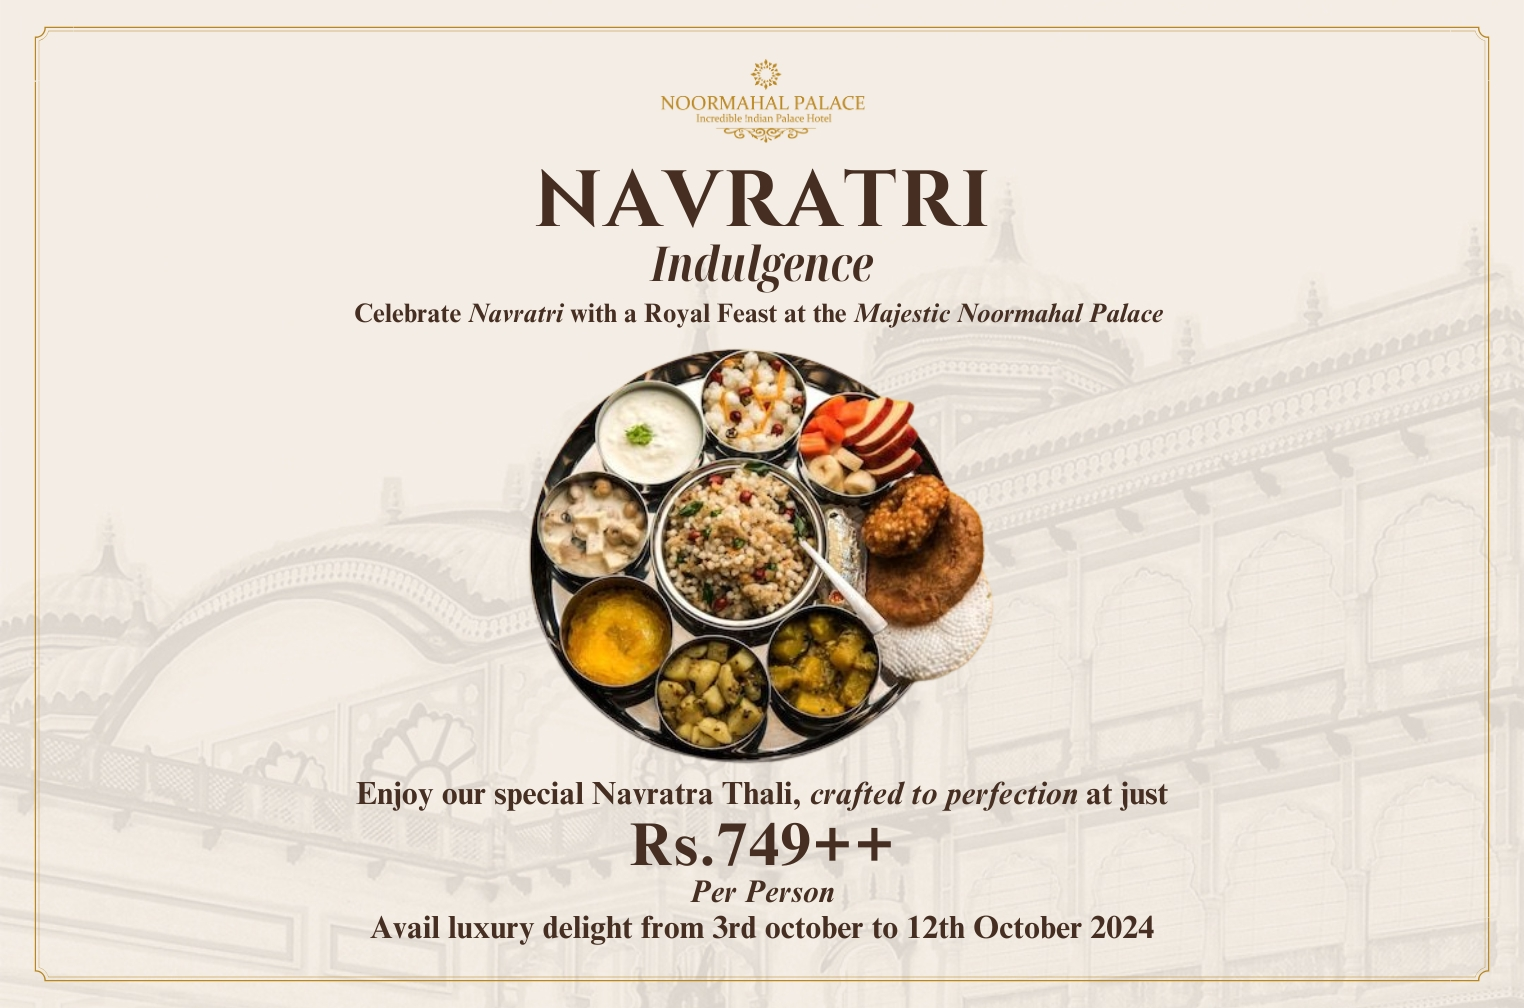
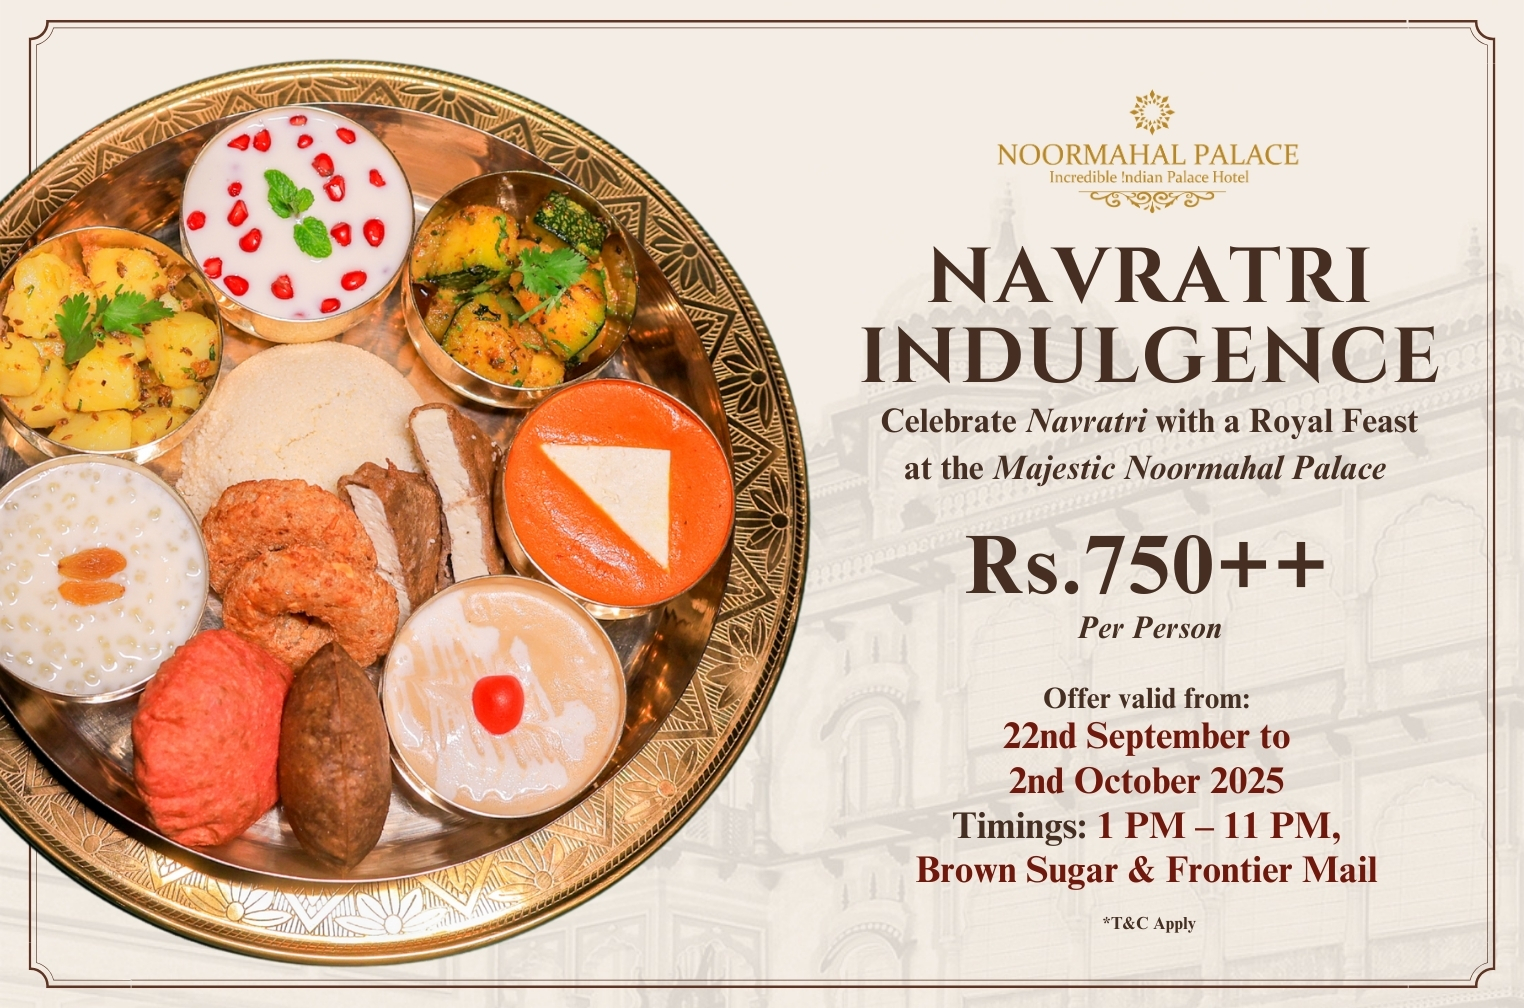
promo added

diff --git a/src/components/StorySection.jsx b/src/components/StorySection.jsx
@@ -43,9 +43,9 @@ function StorySection({
   // }, []);
 
   // ===================================
-  // useEffect(() => {
-  //   setShowPopUp(true);
-  // }, []);
+  useEffect(() => {
+    setShowPopUp(true);
+  }, []);
 
   //=================================
 
@@ -73,29 +73,29 @@ function StorySection({
   //   return () => clearInterval(intervalId);
   // }, []);
 
-  useEffect(() => {
-    const checkPopupTime = () => {
-      const currentDate = new Date();
-      // Set start and end times for the popup display window
-      const startTime = new Date('2025-09-01T00:00:00'); // Start showing on 30th October
-      const endTime = new Date('2025-09-05T06:00:00'); // Hide at 3 AM on 2nd November
+  // useEffect(() => {
+  //   const checkPopupTime = () => {
+  //     const currentDate = new Date();
+  //     // Set start and end times for the popup display window
+  //     const startTime = new Date('2025-09-01T00:00:00'); // Start showing on 30th October
+  //     const endTime = new Date('2025-09-05T06:00:00'); // Hide at 3 AM on 2nd November
 
-      if (currentDate >= startTime && currentDate < endTime) {
-        setShowPopUp(true); // Show popup
-      } else {
-        setShowPopUp(false); // Hide popup
-      }
-    };
+  //     if (currentDate >= startTime && currentDate < endTime) {
+  //       setShowPopUp(true); // Show popup
+  //     } else {
+  //       setShowPopUp(false); // Hide popup
+  //     }
+  //   };
 
-    // Check popup time immediately when component mounts
-    checkPopupTime();
+  //   // Check popup time immediately when component mounts
+  //   checkPopupTime();
 
-    // Optionally, re-check every minute if you want real-time updates
-    const intervalId = setInterval(checkPopupTime, 60 * 1000); // Check every minute
+  //   // Optionally, re-check every minute if you want real-time updates
+  //   const intervalId = setInterval(checkPopupTime, 60 * 1000); // Check every minute
 
-    // Clear interval when component unmounts to avoid memory leaks
-    return () => clearInterval(intervalId);
-  }, []);
+  //   // Clear interval when component unmounts to avoid memory leaks
+  //   return () => clearInterval(intervalId);
+  // }, []);
 
   return (
     <div>

diff --git a/src/components/pageComponents/storyPage/Popup.jsx b/src/components/pageComponents/storyPage/Popup.jsx
@@ -1,7 +1,7 @@
 import Link from 'next/link';
 import React from 'react';
 import { MdClose } from 'react-icons/md';
-import image from '../../../../public/assets/images/promotion/teachersday.jpg';
+import image from '../../../../public/assets/images/promotion/navratri.jpg';
 import Image from 'next/image';
 function Popup({ showPopUp, setShowPopUp }) {
   // const handleClick = () =>{

diff --git a/src/pages/promotions/index.jsx b/src/pages/promotions/index.jsx
@@ -7,6 +7,10 @@ import { useForm } from 'react-hook-form';
 
 const promotions = [
   {
+    image: 'assets/images/promotion/navratri.jpg',
+    knowMoreLink: null,
+  },
+  {
     image: 'assets/images/promotion/asia-cup.jpg',
     knowMoreLink: null,
   },
